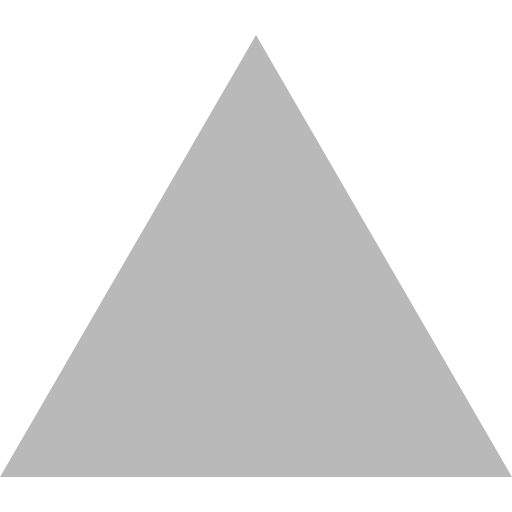
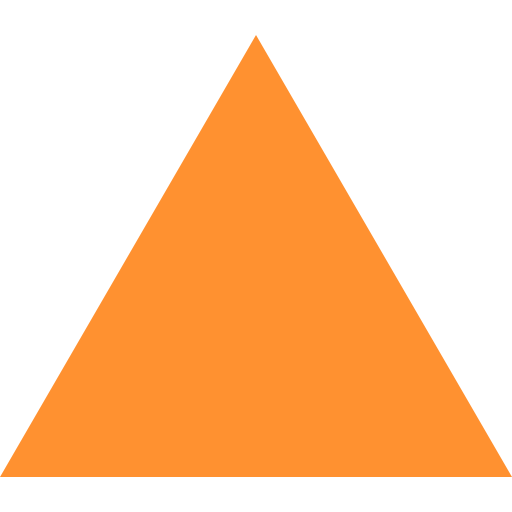
ajeitandotemplates

diff --git a/main/static/css/index.css b/main/static/css/index.css
@@ -8,7 +8,7 @@
 }
 
 body {
-  background-color: #05021f;
+  background-color: #F5F6FA;
   font-family: 'Montserrat', sans-serif;
 }
 
@@ -20,7 +20,7 @@ nav {
   width: 100%;
   background-color: #fffffff3;
   top: 0%;
-  box-shadow: 8px 8px 8px rgba(0, 0, 0, 0.678);
+  box-shadow: 3x 3px 3px rgba(0, 0, 0, 0.678);
 }
 
 ul {
@@ -69,12 +69,11 @@ ul {
 
 .menu li ul {
   position: absolute;
-  top: 45px;
-  left: -2px;
-  background-color: #b9b9b9;
+  top: 30px;
+  left: -11px;
+  background-color: rgba(255, 144, 47, 0.959);
   display: none;
   border-radius: 5px;
-  box-shadow: 10px 10px 10px rgba(0, 0, 0, 0.459);
   height: 100px;
 }
 
@@ -83,7 +82,7 @@ ul {
 }
 
 a#logo:hover, a#entra:hover{
-  color: #00000042;
+  color:  rgba(8, 9, 44, 0.329);
 }
 
 li.dd{
@@ -102,7 +101,7 @@ li.dd{
 }
 
 img#triangulo{
-  top: -15px;
+  top: -10px;
   position: absolute;
   left: 87px;
   z-index: -1;
@@ -114,7 +113,7 @@ a.submenu {
 
 a{
   text-decoration: none;
-  color: rgb(0, 0, 0);
+  color: rgb(8, 9, 44);
   font-size: 18px;
   padding: 10px;
   transition: 1s;
@@ -124,7 +123,7 @@ a.submenu::after{
   content: "";
   width: 0%;
   height: 1px;
-  background-color: #000000;
+  background-color: rgb(8, 9, 44);
   position: absolute;
   bottom:0;
   left: 0;
@@ -133,7 +132,7 @@ a.submenu::after{
 
 a.submenu:hover::after {
   width: 100%;
-  color: #000000;
+  color: rgb(8, 9, 44);
 }
 
 #logo {
@@ -142,18 +141,18 @@ a.submenu:hover::after {
 }
 
 #registrar {
-  border: solid 1px rgb(0, 0, 0);
+  border: solid 1px rgb(8, 9, 44);
   border-radius: 5px;
   transition: 1s;
 }
 
 #registrar:hover {
-  background-color: #000000;
+  background-color: rgb(8, 9, 44);
   color: #ffffffff;
 }
 
 .pesquisa {
-  background-color: #05021f;
+  background-color: rgb(8, 9, 44);
   border-radius: 5px;
   display: flex;
   justify-content: space-around;
@@ -163,7 +162,7 @@ a.submenu:hover::after {
 }
 
 #busca {
-  background-color: #05021f;
+  background-color: rgb(8, 9, 44);
   border-radius: 5px;
   height: 30px;
   width: 200px;
@@ -178,14 +177,14 @@ a.submenu:hover::after {
 }
 
 ::placeholder {
-  color: rgba(255, 255, 255, 0.644);
+  color: rgba(255, 255, 255, 0.884);
 }
 
 /* Fim Barra de Navegação */
 
 /* Main */
 main {
-  margin-top: 180px;
+  margin-top: 150px;
   display: flex;
   align-items: center;
   flex-direction: column;
@@ -204,24 +203,14 @@ main .descricao {
   background-size: cover;
 }
 
-main div h1 {
-  color: white;
-  font-size: 80px;
-  background-color: rgba(0, 0, 0, 0.911);
-  margin-left: 20px;
-  padding: 10px;
-  border-radius: 5px;
-
-}
-
 main div p {
-  color: rgba(255, 255, 255, 0.603);
+  color: rgb(255, 145, 47);
   font-size: 22px;
   margin-top: 10px;
 }
 
 div h3 {
-  color: white;
+  color: rgb(255, 145, 47);
   font-size: 40px;
 }
 
@@ -234,8 +223,10 @@ main .secundaria {
   display: flex;
   align-items: center;
   flex-direction: row-reverse;
-  margin-top: 80px;
+  margin-top: 50px;
   width: 90%;
+  border-top: 1px solid rgba(0, 0, 0, 0.11);
+  padding: 40px 0px 0px 0px;
 }
 
 .descricao2 p,
@@ -248,11 +239,12 @@ main .secundaria {
 /* Footer */
 
 footer {
-  background-color: #ffffffd7;
-  color: #000000;
+  background-color: #ffffffff;
+  color: #08092a;
   margin-top: 50px;
   display: flex;
   justify-content: center;
+  border-top: 1px solid rgba(0, 0, 0, 0.11);
 }
 
 footer p {

diff --git a/empresas/static/styles/cadastroprincipal.css b/empresas/static/styles/cadastroprincipal.css
@@ -8,7 +8,7 @@
 }
 
 body {
-    background-color: #05021f;
+    background-color: #F5F6FA;
     font-family: 'Montserrat', sans-serif;
 }
 
@@ -16,26 +16,14 @@ body {
 
 header {
     background: no-repeat center;
-    background-size: cover;
     height: 150px;
     display: flex;
-    align-items: flex-end;
     justify-content: center;
-    box-shadow: 0px 3px 8px rgba(0, 0, 0, 0.678);
-
+    align-items: center;
 }
 
-header h1 {
-    color: #ffffffd7;
-    position: absolute;
-    top: 100px;
-    background-color: #000000e0;
-    border-radius: 5px;
-    padding: 10px;
-    font-size: 37px;
-    box-shadow: 0px 3px 8px rgba(0, 0, 0, 0.678);
-    width: 700px;
-    text-align: center;
+header img{
+    width: 200px;
 }
 
 /* Fim Header */
@@ -47,11 +35,11 @@ main {
     justify-content: center;
     align-items: center;
     flex-direction: column;
-    margin-top: 100px;
+    margin-top: 10px;
 }
 
 div.centro {
-    background-color: #ffffff20;
+    background-color: #08092a;
     padding: 30px;
     display: flex;
     flex-direction: column;
@@ -75,8 +63,8 @@ div.centro .botoes {
     width: 200px;
     height: 30px;
     font-size: 20px;
-    background-color: transparent;
-    color: #ffffff;
+    background-color: #ff912f;
+    color: #000000;
     border: none;
     border-radius: 5px;
     box-shadow: 0px 11px 12px 0px rgba(0, 0, 0, 0.75);
@@ -85,11 +73,13 @@ div.centro .botoes {
 }
 
 .botoes a:hover {
-    background-color: #ffffff42;
+    background-color: #ff902f94;;
+    box-shadow: none;
 }
 
 .botoes a.ativo {
-    background-color: #ffffff42;
+    background-color: #ff902f94;
+    box-shadow: none;
 }
 
 div.centro div div {
@@ -190,7 +180,7 @@ div.check{
 div.entrar a,
 div.check a {
     margin-left: 5px;
-    color: white;
+    color: #ff912f;
 }
 
 #button {
@@ -199,7 +189,7 @@ div.check a {
     height: 50px;
     cursor: pointer;
     font-size: 18px;
-    background-color: #ffffff;
+    background-color: #ff912f;
     border: none;
     color: rgb(0, 0, 0);
     border-radius: 20px;
@@ -208,7 +198,7 @@ div.check a {
 }
 
 #button:hover {
-    background-color: #ffffff86;
+    background-color: #ff902fa9;
 }
 
 div.entrar p {
@@ -220,12 +210,12 @@ div.entrar p {
 /* Footer */
 
 footer {
-    background-color: #ffffff;
-    color: #000000;
-    margin-top: 20px;
+    background-color: #ffffffff;
+    color: #08092a;
+    margin-top: 50px;
     display: flex;
     justify-content: center;
-    align-items: flex-end;
+    border-top: 1px solid rgba(0, 0, 0, 0.11);
 }
 
 footer p {

diff --git a/main/templates/main/index.html b/main/templates/main/index.html
@@ -25,22 +25,21 @@
                 <p>
                     Procure vagas de estacionamento de maneira rápida, eficaz e segura.
                 </p>
+                <div style="position: absolute; width: 100%; height: 200px; background-color: rgb(8, 9, 44); top: 300px; left: 0; z-index: -1;"></div>
             </div>
         </div>
         <div class="descricao2">
             <div style="background-image: url({% static 'img/imagemale2.jpg' %})" id="principal">
             </div>
             <div class="secundaria">
-                <h3>
+                <h3 style="color: rgb(8, 9, 44);">
                     Os usuários podem facilmente localizar estacionamentos cadastrados.
                 </h3>
-                <p>
+                <p style="color: rgb(8, 9, 44);">
                     Com cadastro fácil de usuários, tanto clientes quanto proprietários.
                 </p>
+                <div style="position: absolute; width: 100%; height: 200px; background-color: rgb(255, 145, 47); top: 860px; left: 0; z-index: -1;"></div>
             </div>
-        </div>
-        <div>
-
         </div>
     </main>
     <footer>

diff --git a/main/templates/main/nav.html b/main/templates/main/nav.html
@@ -3,7 +3,7 @@
     <ul>
         <li class="open">
             <div class="logo">
-                <img src="{% static 'img/Logo.png' %}" style="width:130px">
+               <a href="/"><img src="{% static 'img/Logo.png' %}" style="width:130px"></a>
             </div>
                 <ul class="menu">
                     <li class="dd">

diff --git a/clientes/templates/clientes/cadascliente.html b/clientes/templates/clientes/cadascliente.html
@@ -8,8 +8,8 @@
   <title>PARKIN</title>
 </head>
 <body>
-  <header style="background-image: url({% static 'assets/img/cadastro.jpg' %})">
-    <h1>Facilite sua busca por estacionamentos no seu dia-a-dia</h1>
+  <header>
+    <a href="/"><img src="{% static 'img/Logo.png' %}"></a>
   </header>
   <main>
     <div class="centro">

diff --git a/empresas/templates/empresas/cadasempresa.html b/empresas/templates/empresas/cadasempresa.html
@@ -9,8 +9,8 @@
   <title>PARKIN</title>
 </head>
 <body>
-  <header style="background-image: url({% static 'assets/img/cadastro.jpg' %})">
-    <h1>Facilite sua busca por estacionamentos no seu dia-a-dia</h1>
+  <header>
+    <a href="/"><img src="{% static 'img/Logo.png' %}"></a>
   </header>
   <main>
     <div class="centro">

diff --git a/clientes/templates/clientes/entrar.html b/clientes/templates/clientes/entrar.html
@@ -8,7 +8,10 @@
   <title>PARKIN</title>
 </head>
 <body>
-  <main style="margin-top: 0; height: 550px;">
+  <header>
+    <a href="/"><img src="{% static 'img/Logo.png' %}"></a>
+  </header>
+  <main>
     <div class="centro">
       <h1>Entrar</h1>
       <div class="botoes">

diff --git a/empresas/templates/empresas/entrar.html b/empresas/templates/empresas/entrar.html
@@ -8,7 +8,10 @@
   <title>PARKIN</title>
 </head>
 <body>
-  <main style="margin-top: 0; height: 550px;">
+  <header>
+    <a href="/"><img src="{% static 'img/Logo.png' %}"></a>
+  </header>
+  <main>
     <div class="centro">
       <h1>Entrar</h1>
       <div class="botoes">

diff --git a/main/views.py b/main/views.py
@@ -25,6 +25,7 @@ def enviar_email(mail):
 
 
 def a(request):
-    return render(request, 'main/email.html')
+    return render(request, 'main/grafico.html')
+
 
 
